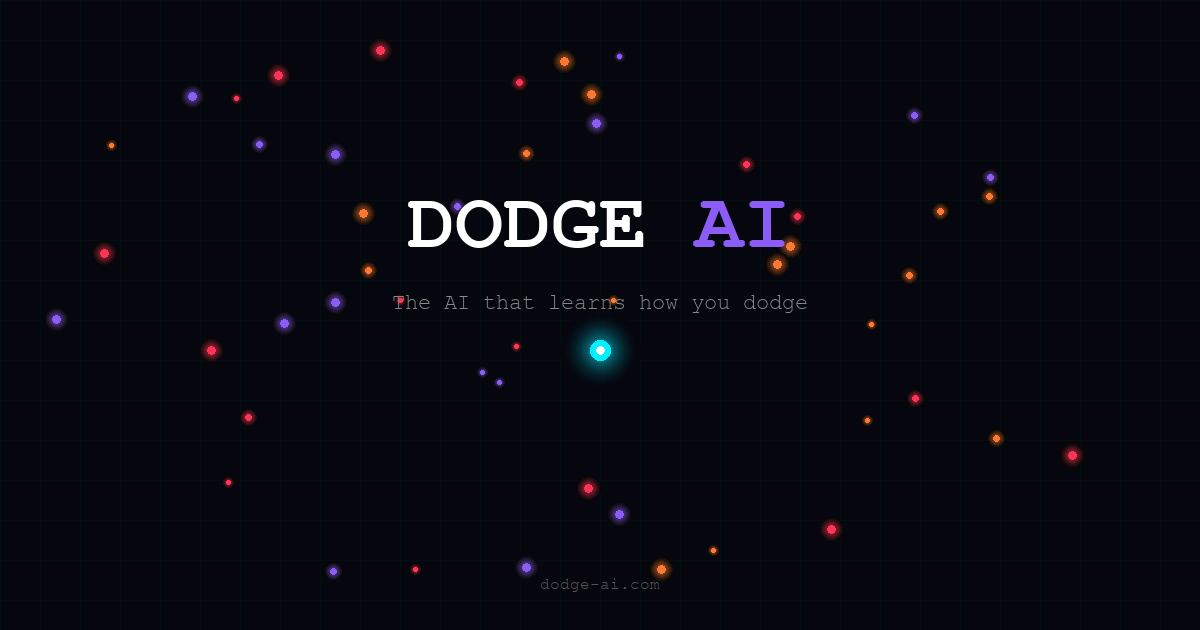
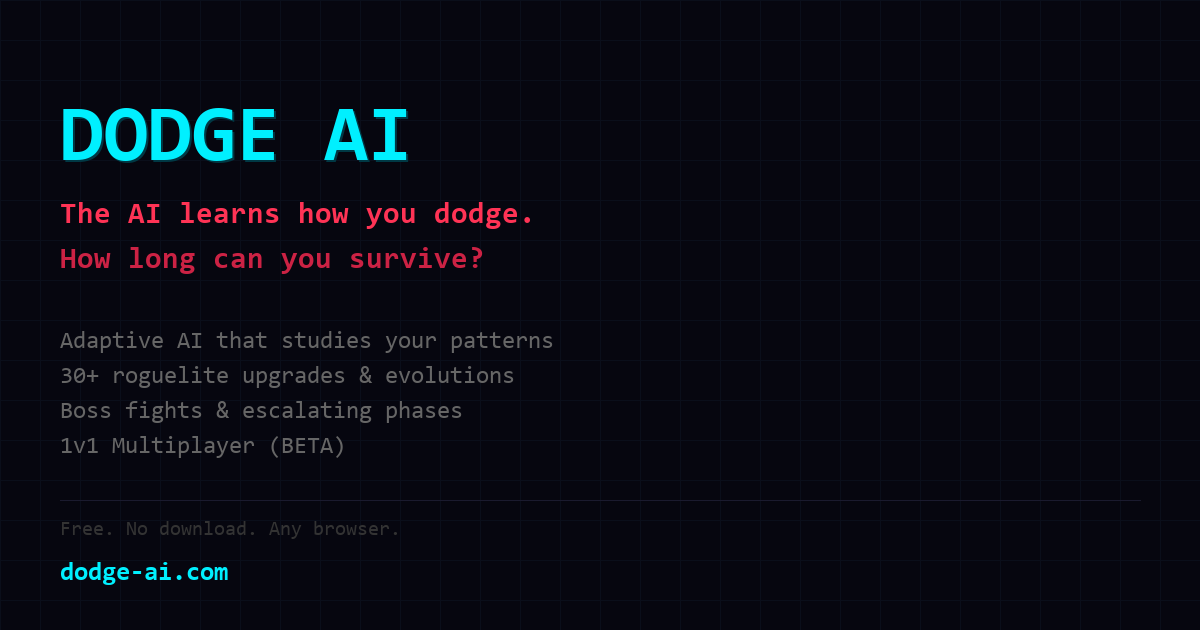
style: add URL to share card/text, update OG image and structured data
- Share text now includes dodge-ai.com link for viral loop
- Share card image shows dodge-ai.com at bottom
- OG image regenerated with cleaner design + multiplayer mention
- Structured data updated for multiplayer (1-2 players)

diff --git a/index.html b/index.html
@@ -45,10 +45,11 @@
     "gamePlatform": ["Web Browser"],
     "operatingSystem": "Any",
     "applicationCategory": "Game",
-    "playMode": "SinglePlayer",
+    "playMode": ["SinglePlayer", "MultiPlayer"],
     "numberOfPlayers": {
       "@type": "QuantitativeValue",
-      "value": 1
+      "minValue": 1,
+      "maxValue": 2
     },
     "offers": {
       "@type": "Offer",
@@ -8919,7 +8920,10 @@ class Game {
     // CTA at bottom
     ctx.font = '18px "Courier New", monospace';
     ctx.fillStyle = '#444444';
-    ctx.fillText('Think you can survive longer?', 60, 580);
+    ctx.fillText('Think you can survive longer?', 60, 570);
+    ctx.font = 'bold 18px "Courier New", monospace';
+    ctx.fillStyle = '#00f0ff';
+    ctx.fillText('dodge-ai.com', 60, 598);
 
     return card;
   }
@@ -8941,7 +8945,7 @@ class Game {
       this.bossesDefeated > 0 ? `Bosses demolished: ${this.bossesDefeated}` : '',
       `The AI thinks it knows me (${this.brain.getConfidence()}% confident)`,
       '',
-      'Think you can last longer?',
+      'Think you can last longer? https://dodge-ai.com',
     ].filter(Boolean).join('\n');
 
     // Convert card to blob and share
